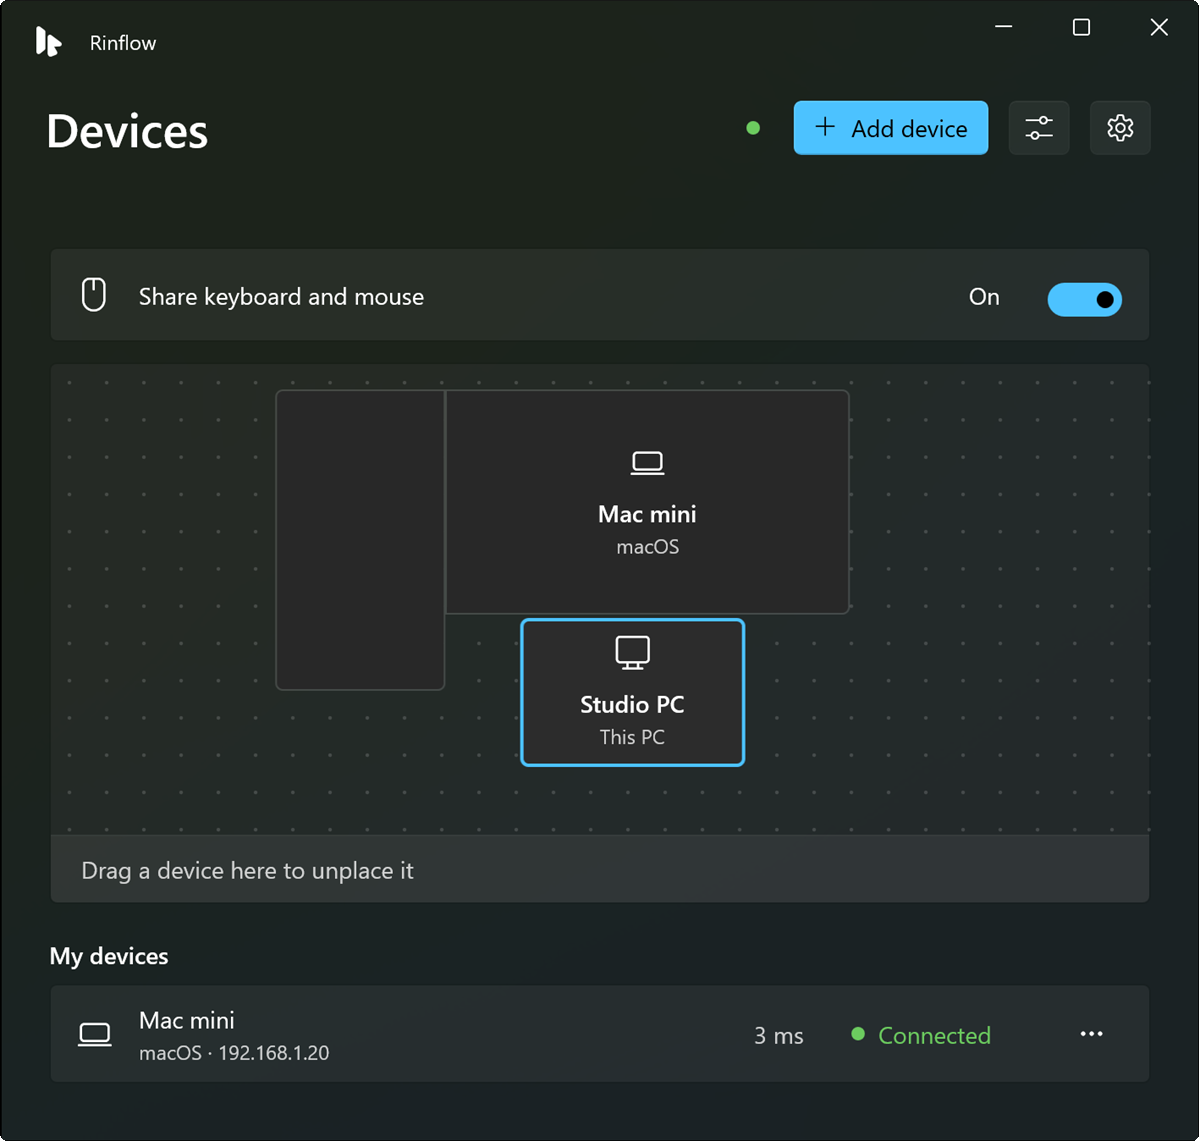
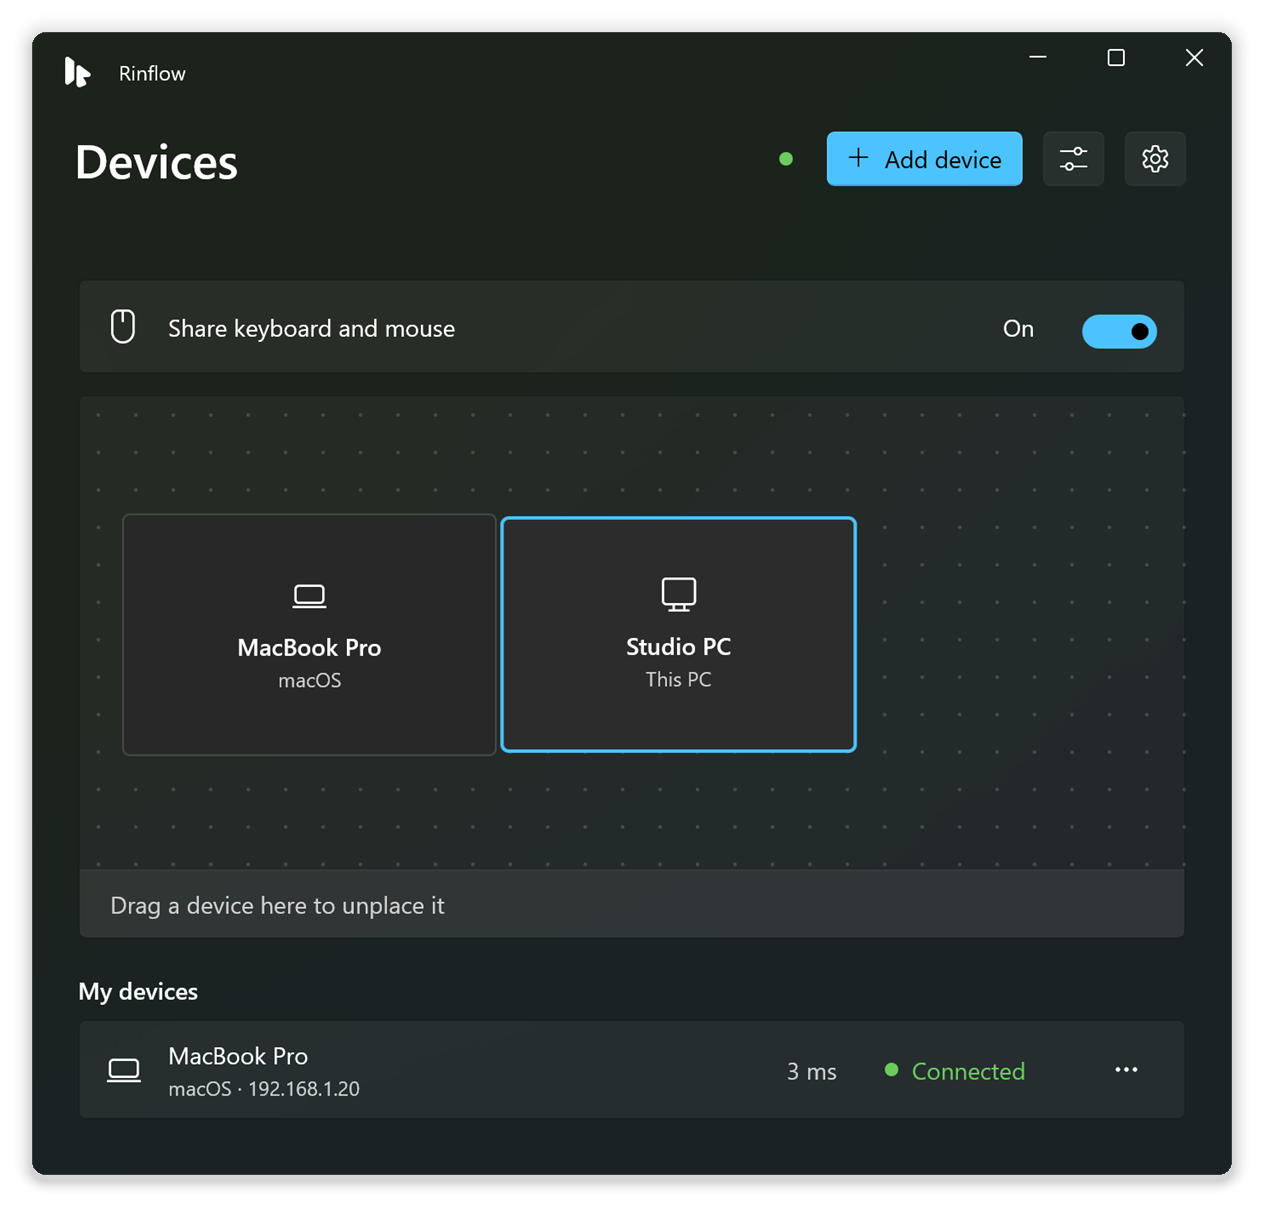
fix: update image dimensions and alt text in localization files

diff --git a/README.ja.md b/README.ja.md
@@ -19,7 +19,7 @@
 <p align="center">
   <picture>
     <source media="(prefers-color-scheme: dark)" srcset="docs/images/devices-ja-JP-dark.png">
-    <img src="docs/images/devices-ja-JP-light.png" width="600" alt="デバイス画面：Mac mini をこの PC の上に配置し、接続済み">
+    <img src="docs/images/devices-ja-JP-light.png" width="640" alt="デバイス画面：MacBook Pro をこの PC の左に配置し、接続済み">
   </picture>
 </p>
 

diff --git a/README.md b/README.md
@@ -19,7 +19,7 @@
 <p align="center">
   <picture>
     <source media="(prefers-color-scheme: dark)" srcset="docs/images/devices-en-US-dark.png">
-    <img src="docs/images/devices-en-US-light.png" width="600" alt="The Devices page: a Mac mini placed above this PC and connected">
+    <img src="docs/images/devices-en-US-light.png" width="640" alt="The Devices page: a MacBook Pro placed to the left of this PC and connected">
   </picture>
 </p>
 

diff --git a/README.zh-CN.md b/README.zh-CN.md
@@ -19,7 +19,7 @@
 <p align="center">
   <picture>
     <source media="(prefers-color-scheme: dark)" srcset="docs/images/devices-zh-CN-dark.png">
-    <img src="docs/images/devices-zh-CN-light.png" width="600" alt="设备页面：Mac mini 放在本机上方，已连接">
+    <img src="docs/images/devices-zh-CN-light.png" width="640" alt="设备页面：MacBook Pro 放在本机左侧，已连接">
   </picture>
 </p>
 
